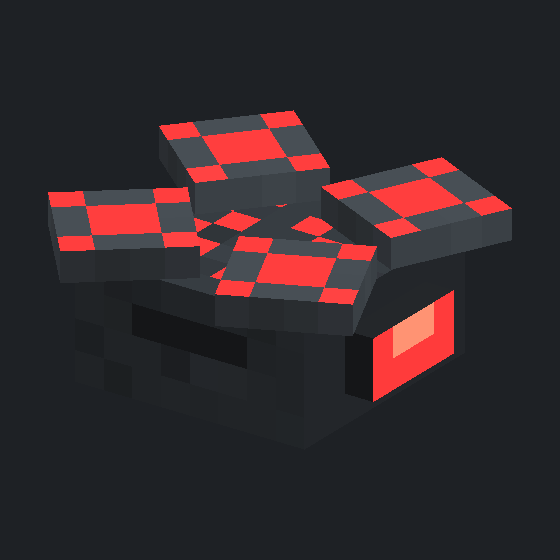
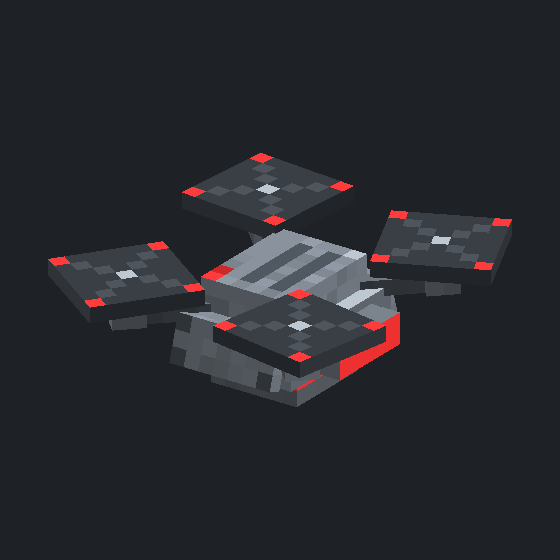
Drone redesign: FPV proportions, grey steel, layered hulls, big rotors
Quad-rotor chassis rebuilt to the review notes:
- Flatter, more industrial: low 3px main slab + raised spine layer + nose
  sensor housing + belly pack instead of the old tall cube
- "Curved" silhouette via rolled armor cheek panels on both flanks
- Four diagonal motor arms with pods; rotor discs nearly doubled (7x7,
  FPV head-sized proportions), counter-rotating in setAngles
- Palette moved from near-black to grey steel with worn-edge highlights;
  surveyor keeps cyan status accents + red sensor bar, attack variant gets
  red rotor tips, chevrons and a visible warhead belly band
- Harvester re-paletted to grey and given fat 3x3x3 industrial wheels
- Entity hitboxes flattened to 1.0 x 0.55 for the fliers
- Preview tool upgraded: transform op sequences (nested rotated arms with
  spinning rotor children, rolled panels); previews regenerated

Claude-Session: https://claude.ai/code/session_01JW9AUHaYR6Y5ETvog8dMhH

Changed region(s): [[0.0911, 0.1821, 0.9107, 0.7286]]

diff --git a/common/src/main/java/dev/rheava/program7/client/render/QuadRotorDroneModel.java b/common/src/main/java/dev/rheava/program7/client/render/QuadRotorDroneModel.java
@@ -13,28 +13,28 @@ import net.minecraft.entity.mob.MobEntity;
 import net.minecraft.util.math.MathHelper;
 
 /**
- * A boxy quad-rotor chassis shared by the small flyers: armored body,
- * forward sensor strip, four spinning rotors. Deliberately reads as
- * "machine", not "creature". Each unit gets its own texture + model layer.
+ * The small-drone chassis, FPV-proportioned: a low, flat, layered hull with
+ * angled armor cheeks (rolled panels faking curvature), four diagonal motor
+ * arms, and oversized rotor discs nearly the size of the hull. Deliberately
+ * reads as "machine", not "creature". Each unit gets its own texture +
+ * model layer.
  */
 public class QuadRotorDroneModel<T extends MobEntity> extends SinglePartEntityModel<T> {
 	public static final EntityModelLayer SURVEYOR_LAYER = new EntityModelLayer(Program7.id("surveyor_drone"), "main");
 	public static final EntityModelLayer ATTACK_LAYER = new EntityModelLayer(Program7.id("attack_drone"), "main");
 
+	private static final String[] ARM_NAMES = {"arm_fl", "arm_fr", "arm_bl", "arm_br"};
+
 	private final ModelPart root;
 	private final ModelPart body;
-	private final ModelPart rotorFrontLeft;
-	private final ModelPart rotorFrontRight;
-	private final ModelPart rotorBackLeft;
-	private final ModelPart rotorBackRight;
+	private final ModelPart[] rotors = new ModelPart[4];
 
 	public QuadRotorDroneModel(ModelPart root) {
 		this.root = root;
 		this.body = root.getChild("body");
-		this.rotorFrontLeft = this.body.getChild("rotor_fl");
-		this.rotorFrontRight = this.body.getChild("rotor_fr");
-		this.rotorBackLeft = this.body.getChild("rotor_bl");
-		this.rotorBackRight = this.body.getChild("rotor_br");
+		for (int i = 0; i < ARM_NAMES.length; i++) {
+			this.rotors[i] = this.body.getChild(ARM_NAMES[i]).getChild("rotor");
+		}
 	}
 
 	public static TexturedModelData getTexturedModelData() {
@@ -43,33 +43,56 @@ public class QuadRotorDroneModel<T extends MobEntity> extends SinglePartEntityMo
 
 		ModelPartData body = root.addChild("body",
 				ModelPartBuilder.create()
-						.uv(0, 0).cuboid(-4.0f, -2.0f, -4.0f, 8.0f, 4.0f, 8.0f)
-						.uv(0, 13).cuboid(-2.0f, -1.0f, -5.0f, 4.0f, 2.0f, 1.0f),
-				ModelTransform.pivot(0.0f, 17.0f, 0.0f));
+						// low main slab
+						.uv(0, 0).cuboid(-5.0f, -1.5f, -4.0f, 10.0f, 3.0f, 8.0f)
+						// raised spine layer (bevel illusion)
+						.uv(0, 12).cuboid(-4.0f, -3.5f, -3.0f, 8.0f, 2.0f, 6.0f)
+						// forward sensor housing with the red bar on its face
+						.uv(0, 21).cuboid(-3.0f, -1.0f, -6.0f, 6.0f, 2.0f, 2.0f)
+						// belly pack (battery/payload)
+						.uv(0, 26).cuboid(-3.0f, 1.5f, -3.0f, 6.0f, 2.0f, 6.0f),
+				ModelTransform.pivot(0.0f, 18.0f, 0.0f));
 
-		ModelPartBuilder rotor = ModelPartBuilder.create()
-				.uv(33, 0).cuboid(-2.0f, -0.5f, -2.0f, 4.0f, 1.0f, 4.0f);
-		body.addChild("rotor_fl", rotor, ModelTransform.pivot(-3.0f, -2.5f, -3.0f));
-		body.addChild("rotor_fr", rotor, ModelTransform.pivot(3.0f, -2.5f, -3.0f));
-		body.addChild("rotor_bl", rotor, ModelTransform.pivot(-3.0f, -2.5f, 3.0f));
-		body.addChild("rotor_br", rotor, ModelTransform.pivot(3.0f, -2.5f, 3.0f));
+		// Rolled armor cheeks — the "curved" silhouette.
+		body.addChild("panel_left",
+				ModelPartBuilder.create().uv(29, 12).cuboid(-1.0f, -1.5f, -3.5f, 1.0f, 3.0f, 7.0f),
+				ModelTransform.of(-5.0f, 0.0f, 0.0f, 0.0f, 0.0f, 0.30f));
+		body.addChild("panel_right",
+				ModelPartBuilder.create().uv(29, 12).cuboid(0.0f, -1.5f, -3.5f, 1.0f, 3.0f, 7.0f),
+				ModelTransform.of(5.0f, 0.0f, 0.0f, 0.0f, 0.0f, -0.30f));
+
+		addArm(body, "arm_fl", -3.5f, -2.5f, (float) (-Math.PI / 4.0));
+		addArm(body, "arm_fr", 3.5f, -2.5f, (float) (Math.PI / 4.0));
+		addArm(body, "arm_bl", -3.5f, 2.5f, (float) (-Math.PI * 3.0 / 4.0));
+		addArm(body, "arm_br", 3.5f, 2.5f, (float) (Math.PI * 3.0 / 4.0));
 
 		return TexturedModelData.of(modelData, 64, 64);
+	}
+
+	private static void addArm(ModelPartData body, String name, float x, float z, float yaw) {
+		ModelPartData arm = body.addChild(name,
+				ModelPartBuilder.create()
+						.uv(37, 0).cuboid(-0.5f, -0.5f, -5.0f, 1.0f, 1.0f, 5.0f)
+						.uv(37, 7).cuboid(-1.0f, -1.5f, -6.0f, 2.0f, 2.0f, 2.0f),
+				ModelTransform.of(x, -1.5f, z, 0.0f, yaw, 0.0f));
+		// Head-sized rotor disc riding on the motor pod.
+		arm.addChild("rotor",
+				ModelPartBuilder.create().uv(0, 35).cuboid(-3.5f, -0.5f, -3.5f, 7.0f, 1.0f, 7.0f),
+				ModelTransform.pivot(0.0f, -2.0f, -5.0f));
 	}
 
 	@Override
 	public void setAngles(T entity, float limbAngle, float limbDistance,
 			float animationProgress, float headYaw, float headPitch) {
-		float spin = animationProgress * 2.2f;
-		this.rotorFrontLeft.yaw = spin;
-		this.rotorFrontRight.yaw = -spin;
-		this.rotorBackLeft.yaw = -spin;
-		this.rotorBackRight.yaw = spin;
+		float spin = animationProgress * 2.8f;
+		for (int i = 0; i < this.rotors.length; i++) {
+			this.rotors[i].yaw = (i % 2 == 0) ? spin : -spin;
+		}
 
 		// Idle hover bob plus a slight nose-down lean toward whatever it watches.
-		this.body.pivotY = 17.0f + MathHelper.sin(animationProgress * 0.18f) * 0.6f;
-		this.body.pitch = headPitch * ((float) Math.PI / 180.0f) * 0.25f;
-		this.body.yaw = headYaw * ((float) Math.PI / 180.0f) * 0.15f;
+		this.body.pivotY = 18.0f + MathHelper.sin(animationProgress * 0.18f) * 0.5f;
+		this.body.pitch = headPitch * ((float) Math.PI / 180.0f) * 0.3f;
+		this.body.yaw = headYaw * ((float) Math.PI / 180.0f) * 0.2f;
 	}
 
 	@Override

diff --git a/tools/render_models.py b/tools/render_models.py
@@ -86,6 +86,12 @@ def rot_x(p, angle):
     return (x, y * c - z * s, y * s + z * c)
 
 
+
+
+def rot_z(p, angle):
+    x, y, z = p
+    c, s = math.cos(angle), math.sin(angle)
+    return (x * c - y * s, x * s + y * c, z)
 def box_faces(part):
     """Faces of one cuboid: (name, corner_fn(a,b)->model xyz, uv rect)."""
     ox, oy, oz = part["origin"]
@@ -133,14 +139,18 @@ def render(name, texture_path, parts):
     # Gather projected faces.
     faces = []
     for part in parts:
-        pivot = part["pivot"]
-        yaw = math.radians(part.get("yaw", 0.0))
+        ops = part.get("ops", [])
         for face_name, corner, (u0, v0, u1, v1) in box_faces(part):
             pts = []
             for a, b in ((0, 0), (1, 0), (0, 1)):
                 p = corner(a, b)
-                p = rot_y(p, yaw)
-                p = (p[0] + pivot[0], p[1] + pivot[1], p[2] + pivot[2])
+                for op in ops:
+                    if op[0] == "roty":
+                        p = rot_y(p, math.radians(op[1]))
+                    elif op[0] == "rotz":
+                        p = rot_z(p, math.radians(op[1]))
+                    elif op[0] == "move":
+                        p = (p[0] + op[1][0], p[1] + op[1][1], p[2] + op[1][2])
                 pts.append(project(p))
             faces.append((face_name, pts, (u0, v0, u1, v1)))
 
@@ -197,37 +207,49 @@ def render(name, texture_path, parts):
 
 
 # ------------------------------------------------------- model definitions
-# Keep in sync with the Java model classes.
+# Keep in sync with the Java model classes. Each part carries an "ops" list
+# applied in order to its local-space corners: ("roty", deg), ("rotz", deg),
+# ("move", (x, y, z)). This supports rotated arms with spinning rotor
+# children and rolled armor panels.
 
 def quad_rotor_parts():
     parts = [
-        {"origin": (-4, -2, -4), "size": (8, 4, 8), "uv": (0, 0), "pivot": (0, 17, 0)},
-        {"origin": (-2, -1, -5), "size": (4, 2, 1), "uv": (0, 13), "pivot": (0, 17, 0)},
+        {"origin": (-5, -1.5, -4), "size": (10, 3, 8), "uv": (0, 0), "ops": [("move", (0, 18, 0))]},
+        {"origin": (-4, -3.5, -3), "size": (8, 2, 6), "uv": (0, 12), "ops": [("move", (0, 18, 0))]},
+        {"origin": (-3, -1, -6), "size": (6, 2, 2), "uv": (0, 21), "ops": [("move", (0, 18, 0))]},
+        {"origin": (-3, 1.5, -3), "size": (6, 2, 6), "uv": (0, 26), "ops": [("move", (0, 18, 0))]},
+        # rolled armor cheeks (roll = z rotation, matches ModelTransform.of roll 0.30 rad)
+        {"origin": (-1, -1.5, -3.5), "size": (1, 3, 7), "uv": (29, 12),
+         "ops": [("rotz", 17.2), ("move", (-5, 18, 0))]},
+        {"origin": (0, -1.5, -3.5), "size": (1, 3, 7), "uv": (29, 12),
+         "ops": [("rotz", -17.2), ("move", (5, 18, 0))]},
     ]
-    for (dx, dz), spin in (((-3, -3), 25), ((3, -3), -25), ((-3, 3), 40), ((3, 3), -40)):
-        parts.append({"origin": (-2, -0.5, -2), "size": (4, 1, 4), "uv": (33, 0),
-                      "pivot": (dx, 14.5, dz), "yaw": spin})
+    arms = (((-3.5, -2.5), -45, 20), ((3.5, -2.5), 45, -35), ((-3.5, 2.5), -135, 50), ((3.5, 2.5), 135, -10))
+    for (ax, az), yaw, spin in arms:
+        base = [("roty", yaw), ("move", (ax, 16.5, az))]
+        parts.append({"origin": (-0.5, -0.5, -5), "size": (1, 1, 5), "uv": (37, 0), "ops": list(base)})
+        parts.append({"origin": (-1, -1.5, -6), "size": (2, 2, 2), "uv": (37, 7), "ops": list(base)})
+        parts.append({"origin": (-3.5, -0.5, -3.5), "size": (7, 1, 7), "uv": (0, 35),
+                      "ops": [("roty", spin), ("move", (0, -2, -5))] + list(base)})
     return parts
 
 
 HARVESTER_PARTS = [
-    {"origin": (-5, -2.5, -4), "size": (10, 5, 8), "uv": (0, 0), "pivot": (0, 19.5, 0)},
-    {"origin": (-2, -1, -5), "size": (4, 2, 1), "uv": (0, 14), "pivot": (0, 19.5, 0)},
-    {"origin": (-3, -4.5, -2), "size": (6, 2, 4), "uv": (0, 18), "pivot": (0, 19.5, 0)},
-    {"origin": (-1, -1, -1), "size": (2, 2, 2), "uv": (37, 0), "pivot": (-4, 23, -2.5)},
-    {"origin": (-1, -1, -1), "size": (2, 2, 2), "uv": (37, 0), "pivot": (4, 23, -2.5)},
-    {"origin": (-1, -1, -1), "size": (2, 2, 2), "uv": (37, 0), "pivot": (-4, 23, 2.5)},
-    {"origin": (-1, -1, -1), "size": (2, 2, 2), "uv": (37, 0), "pivot": (4, 23, 2.5)},
+    {"origin": (-5, -2.5, -4), "size": (10, 5, 8), "uv": (0, 0), "ops": [("move", (0, 19.5, 0))]},
+    {"origin": (-2, -1, -5), "size": (4, 2, 1), "uv": (0, 14), "ops": [("move", (0, 19.5, 0))]},
+    {"origin": (-3, -4.5, -2), "size": (6, 2, 4), "uv": (0, 18), "ops": [("move", (0, 19.5, 0))]},
+] + [
+    {"origin": (-1.5, -1.5, -1.5), "size": (3, 3, 3), "uv": (37, 0), "ops": [("move", (x, 22.5, z))]}
+    for x in (-5, 5) for z in (-2.5, 2.5)
 ]
 
 PROBE_CORE_PARTS = [
-    {"origin": (-8, 0, -8), "size": (16, 16, 16), "uv_all": (0, 0, 16, 16), "pivot": (0, 0, 0)},
+    {"origin": (-8, 0, -8), "size": (16, 16, 16), "uv_all": (0, 0, 16, 16), "ops": []},
 ]
 
 
 def main():
-    surveyor_eye = quad_rotor_parts()
-    render("surveyor_drone", os.path.join(TEX, "entity/surveyor_drone.png"), surveyor_eye)
+    render("surveyor_drone", os.path.join(TEX, "entity/surveyor_drone.png"), quad_rotor_parts())
     render("attack_drone", os.path.join(TEX, "entity/attack_drone.png"), quad_rotor_parts())
     render("harvester_drone", os.path.join(TEX, "entity/harvester_drone.png"), HARVESTER_PARTS)
     render("probe_core", os.path.join(TEX, "block/probe_core.png"), PROBE_CORE_PARTS)

diff --git a/common/src/main/java/dev/rheava/program7/client/render/HarvesterDroneModel.java b/common/src/main/java/dev/rheava/program7/client/render/HarvesterDroneModel.java
@@ -45,12 +45,13 @@ public class HarvesterDroneModel extends SinglePartEntityModel<HarvesterDroneEnt
 						.uv(0, 18).cuboid(-3.0f, -4.5f, -2.0f, 6.0f, 2.0f, 4.0f),
 				ModelTransform.pivot(0.0f, 19.5f, 0.0f));
 
+		// Fat industrial wheels, sticking out past the hull.
 		ModelPartBuilder wheel = ModelPartBuilder.create()
-				.uv(37, 0).cuboid(-1.0f, -1.0f, -1.0f, 2.0f, 2.0f, 2.0f);
-		body.addChild("wheel_fl", wheel, ModelTransform.pivot(-4.0f, 3.5f, -2.5f));
-		body.addChild("wheel_fr", wheel, ModelTransform.pivot(4.0f, 3.5f, -2.5f));
-		body.addChild("wheel_bl", wheel, ModelTransform.pivot(-4.0f, 3.5f, 2.5f));
-		body.addChild("wheel_br", wheel, ModelTransform.pivot(4.0f, 3.5f, 2.5f));
+				.uv(37, 0).cuboid(-1.5f, -1.5f, -1.5f, 3.0f, 3.0f, 3.0f);
+		body.addChild("wheel_fl", wheel, ModelTransform.pivot(-5.0f, 3.0f, -2.5f));
+		body.addChild("wheel_fr", wheel, ModelTransform.pivot(5.0f, 3.0f, -2.5f));
+		body.addChild("wheel_bl", wheel, ModelTransform.pivot(-5.0f, 3.0f, 2.5f));
+		body.addChild("wheel_br", wheel, ModelTransform.pivot(5.0f, 3.0f, 2.5f));
 
 		return TexturedModelData.of(modelData, 64, 64);
 	}

diff --git a/common/src/main/java/dev/rheava/program7/registry/P7Entities.java b/common/src/main/java/dev/rheava/program7/registry/P7Entities.java
@@ -24,7 +24,7 @@ public final class P7Entities {
 	public static final RegistrySupplier<EntityType<SurveyorDroneEntity>> SURVEYOR_DRONE =
 			ENTITIES.register("surveyor_drone",
 					() -> EntityType.Builder.create(SurveyorDroneEntity::new, SpawnGroup.MISC)
-							.dimensions(0.9f, 0.7f)
+							.dimensions(1.0f, 0.55f)
 							.maxTrackingRange(10)
 							.build());
 
@@ -32,7 +32,7 @@ public final class P7Entities {
 	public static final RegistrySupplier<EntityType<AttackDroneEntity>> ATTACK_DRONE =
 			ENTITIES.register("attack_drone",
 					() -> EntityType.Builder.create(AttackDroneEntity::new, SpawnGroup.MISC)
-							.dimensions(0.9f, 0.7f)
+							.dimensions(1.0f, 0.55f)
 							.maxTrackingRange(10)
 							.build());
 
